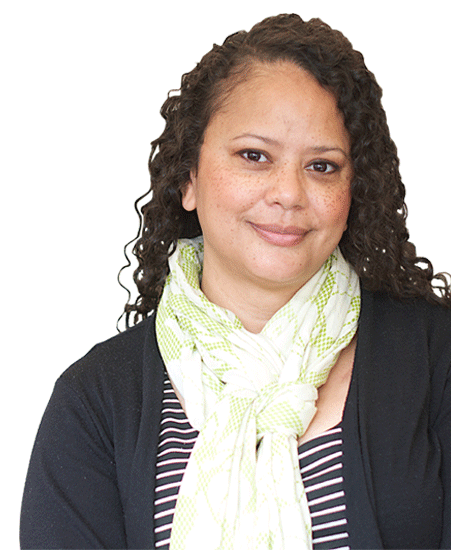
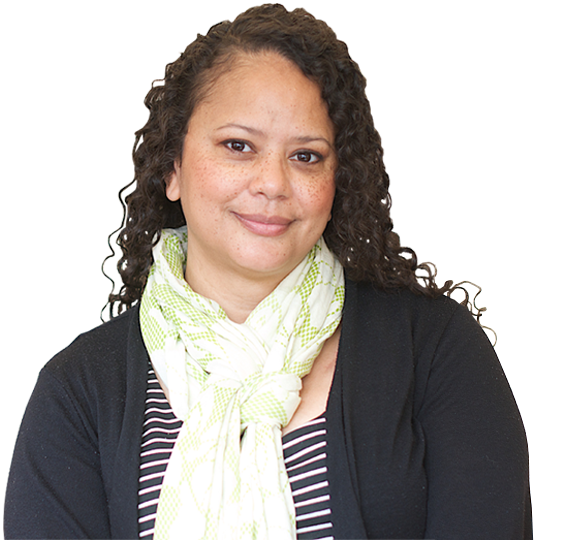
Animating entire page with translateX on home page when menu pops out. Footer mustache templates.

diff --git a/css/style.css b/css/style.css
@@ -59,8 +59,6 @@
     float: right;
 }
 
-
-
 body.home .body li, body.not_found .body li {
     display: block;
     margin: 10px;
@@ -103,6 +101,24 @@ body #intro ul li a{
 body #intro ul li a:hover{
     background: #fff;
     color: #111 !important;
+}
+
+#bodyWrapper{
+    -moz-transition: all .5s linear 0s; /* This is the animation TO THE RIGHT for the details wrapper */
+    -webkit-transition: all .5s linear 0s; /* This is the animation TO THE RIGHT for the details */
+    -ms-transition: all .5s linear 0s; /* This is the animation TO THE RIGHT for the details */
+    transition: all .5s linear 0s;
+}
+
+#bodyWrapper.rightMenu{
+    -moz-transition: all .5s linear 0s; /* This is the animation TO THE RIGHT for the details wrapper */
+    -webkit-transition: all .5s linear 0s; /* This is the animation TO THE RIGHT for the details */
+    -ms-transition: all .5s linear 0s; /* This is the animation TO THE RIGHT for the details */
+    transition: all .5s linear 0s;
+    -webkit-transform: translateX(-240px);
+    transform: translateX(-240px);
+    -ms-transform:translateX(-240px);
+    -moz-transform:translateX(-240px);
 }
 
 .sourceSemibold{
@@ -151,9 +167,6 @@ body #intro ul li a:hover{
     width: 200px;
 }
 
-.absolute{
-    position: absolute;
-}
 
 #headerMenuToggle.threeLines{
     position: fixed;
@@ -189,14 +202,14 @@ section#headerScrollWatch {
     height: 100%;
     background-color: #242424;
     position:fixed;
-    right: -250px;
+    right: -240px;
     top: 0;
     z-index: 3;
     padding: 0 35px;
-    -moz-transition: all .5s ease 0s; /* This is the animation TO THE RIGHT for the details wrapper */
-    -webkit-transition: all .5s ease 0s; /* This is the animation TO THE RIGHT for the details */
-    -ms-transition: all .5s ease 0s; /* This is the animation TO THE RIGHT for the details */
-    transition: all .5s ease 0s;
+    -moz-transition: all .5s linear 0s; /* This is the animation TO THE RIGHT for the details wrapper */
+    -webkit-transition: all .5s linear 0s; /* This is the animation TO THE RIGHT for the details */
+    -ms-transition: all .5s linear 0s; /* This is the animation TO THE RIGHT for the details */
+    transition: all .5s linear 0s;
 }
 
 #rightSideBar a{
@@ -213,7 +226,14 @@ section#headerScrollWatch {
 }
 
 #rightSideBar.active{
-    right: 0px;
+    -webkit-transform: translateX(-240px);
+    transform: translateX(-240px);
+    -ms-transform:translateX(-240px);
+    -moz-transform:translateX(-240px);
+    -moz-transition: all .5s linear 0s; /* This is the animation TO THE RIGHT for the details wrapper */
+    -webkit-transition: all .5s linear 0s; /* This is the animation TO THE RIGHT for the details */
+    -ms-transition: all .5s linear 0s; /* This is the animation TO THE RIGHT for the details */
+    transition: all .5s linear 0s;
 }
 
 /********/
@@ -293,8 +313,8 @@ div#infographic-right-content{
 
 .lisaright{
     background: url(../images/lisa_right.png) no-repeat;
-    width: 451px;
-    height: 550px;
+    width: 540px;
+    height: 561px;
     float:right;
 }
 

diff --git a/home.html b/home.html
@@ -20,6 +20,20 @@
     <link rel="stylesheet" href="css/ie/v8.css"/><![endif]-->
 </head>
 <body>
+<div id="rightSideBar">
+    <div id="sideBarToggle" class="threeLines" style="float:right" class="clearfix">
+        <div class="horizontal-bar"></div>
+        <div class="horizontal-bar"></div>
+        <div class="horizontal-bar"></div>
+    </div>
+
+    <ul id="right-nav-menu">
+
+    </ul>
+</div>
+<div id="bodyWrapper">
+
+
 
 
 <!-- Header -->
@@ -46,17 +60,7 @@
     </ul>
 </nav>
 
-<div id="rightSideBar">
-    <div id="sideBarToggle" class="threeLines" style="float:right" class="clearfix">
-        <div class="horizontal-bar"></div>
-        <div class="horizontal-bar"></div>
-        <div class="horizontal-bar"></div>
-    </div>
 
-    <ul id="right-nav-menu">
-
-    </ul>
-</div>
 
 <section id="headerScrollWatch">
  My Stuff is in here.
@@ -302,10 +306,7 @@
 
          Use anything from here: http://fortawesome.github.io/Font-Awesome/cheatsheet/)
     -->
-    <ul class="actions">
-        <li><a href="#" class="fa solo fa-twitter"><span>Twitter</span></a></li>
-        <li><a href="#" class="fa solo fa-facebook"><span>Facebook</span></a></li>
-        <li><a href="#" class="fa solo fa-linkedin"><span>Linkedin</span></a></li>
+    <ul id="footerItems" class="actions">
     </ul>
 
     <!-- Menu -->
@@ -314,6 +315,6 @@
     </ul>
 
 </footer>
-
+</div>
 </body>
 </html>

diff --git a/js/init.js b/js/init.js
@@ -180,7 +180,7 @@
 							.fadeTo(_settings.fadeInSpeed, 1, function() {
 								$body.removeClass('loading');
 								$all.fadeTo(0, 1);
-
+                scrollCheck();
 							});
 					}, _settings.fadeInSpeed);
 				});
@@ -424,6 +424,8 @@ $( document ).ready(function(){
   //TD Stuff
   $(".threeLines").on("click", function(evt){
     $("#rightSideBar").toggleClass("active");
+    $("#bodyWrapper").toggleClass("rightMenu");
+
   });
 
   //FAQ Stuff
@@ -440,6 +442,11 @@ $( document ).ready(function(){
 
 //called after screen fades in
 function postLoad() {
+  loadMenu();
+  loadFooter();
+}
+
+function scrollCheck(){
   //Manually check to see if we start out past 280px.  If so, then show the top banner.
   if (window.scrollY > 280) {
     //Turn on class
@@ -447,8 +454,6 @@ function postLoad() {
   } else {
     $("#nav").removeClass('active');
   }
-
-  loadMenu();
 }
 
 
@@ -463,5 +468,18 @@ function loadMenu() {
       $('#right-nav-menu').html(rendered);
     });
 
+  });
+}
+
+//Load the right menu of each page
+function loadFooter() {
+  //Get the JSON with the contents of the menu.
+  $.getJSON("js/template_footer.js", function(json){
+
+    //Get the template
+    $.get('templates/footer.mst', function(template) {
+      var rendered = Mustache.render(template, json);
+      $('#footerItems').html(rendered);
+    });
   });
 }

diff --git a/js/static-pages.js b/js/static-pages.js
@@ -204,22 +204,22 @@
 
 
 
-$( document ).ready(function(){
-    //TD Stuff
-    $(".threeLines").on("click", function(evt){
-        $("#rightSideBar").toggleClass("active");
-    });
+$( document ).ready(function() {
+  //TD Stuff
+  $(".threeLines").on("click", function (evt) {
+    $("#rightSideBar").toggleClass("active");
+  });
 
-    //FAQ Stuff
-    $(".question").on("click", function(evt){
-        //Close all answers and slide open this question's child answer node.
-        $(".answer").hide();
+  //FAQ Stuff
+  $(".question").on("click", function (evt) {
+    //Close all answers and slide open this question's child answer node.
+    $(".answer").hide();
 
-    });
+  });
 
-    //Load the menu
-    loadMenu();
-
+  //Load the menu
+  loadMenu();
+  loadFooter();
 });
 
 //called after screen fades in
@@ -245,7 +245,20 @@ function loadMenu() {
       var rendered = Mustache.render(template, json);
       $('#right-nav-menu').html(rendered);
     });
+  });
+}
 
+
+//Load the right menu of each page
+function loadFooter() {
+  //Get the JSON with the contents of the menu.
+  $.getJSON("js/template_footer.js", function(json){
+
+    //Get the template
+    $.get('templates/footer.mst', function(template) {
+      var rendered = Mustache.render(template, json);
+      $('#footerItems').html(rendered);
+    });
   });
 }
 

diff --git a/team.html b/team.html
@@ -149,13 +149,9 @@
 
     <!--
          Social Icons
-
          Use anything from here: http://fortawesome.github.io/Font-Awesome/cheatsheet/)
     -->
-    <ul class="actions">
-        <li><a href="#" class="fa solo fa-twitter"><span>Twitter</span></a></li>
-        <li><a href="#" class="fa solo fa-facebook"><span>Facebook</span></a></li>
-        <li><a href="#" class="fa solo fa-linkedin"><span>Linkedin</span></a></li>
+    <ul id="footerItems" class="actions">
     </ul>
 
     <!-- Menu -->

diff --git a/faq.html b/faq.html
@@ -113,10 +113,7 @@
 
          Use anything from here: http://fortawesome.github.io/Font-Awesome/cheatsheet/)
     -->
-    <ul class="actions">
-        <li><a href="#" class="fa solo fa-twitter"><span>Twitter</span></a></li>
-        <li><a href="#" class="fa solo fa-facebook"><span>Facebook</span></a></li>
-        <li><a href="#" class="fa solo fa-linkedin"><span>Linkedin</span></a></li>
+    <ul id="footerItems" class="actions">
     </ul>
 
     <!-- Menu -->

diff --git a/become-a-student.html b/become-a-student.html
@@ -91,10 +91,7 @@
 
          Use anything from here: http://fortawesome.github.io/Font-Awesome/cheatsheet/)
     -->
-    <ul class="actions">
-        <li><a href="#" class="fa solo fa-twitter"><span>Twitter</span></a></li>
-        <li><a href="#" class="fa solo fa-facebook"><span>Facebook</span></a></li>
-        <li><a href="#" class="fa solo fa-linkedin"><span>Linkedin</span></a></li>
+    <ul id="footerItems" class="actions">
     </ul>
 
     <!-- Menu -->

diff --git a/program.html b/program.html
@@ -92,10 +92,7 @@
 
          Use anything from here: http://fortawesome.github.io/Font-Awesome/cheatsheet/)
     -->
-    <ul class="actions">
-        <li><a href="#" class="fa solo fa-twitter"><span>Twitter</span></a></li>
-        <li><a href="#" class="fa solo fa-facebook"><span>Facebook</span></a></li>
-        <li><a href="#" class="fa solo fa-linkedin"><span>Linkedin</span></a></li>
+    <ul id="footerItems" class="actions">
     </ul>
 
     <!-- Menu -->

diff --git a/js/template_footer.js b/js/template_footer.js
@@ -1,0 +1,9 @@
+{
+  "footerItems"
+:
+  [
+    { "url": "https://twitter.com/TechDiversified", "iconName": "fa-twitter", "title": "Twitter" },
+    { "url": "https://facebook.com/TechDiversified", "iconName": "fa-facebook", "title": "Facebook" },
+    { "url": "https://linkedin.com/TechDiversified", "iconName": "fa-linkedin", "title": "Linkedin" }
+  ]
+}
